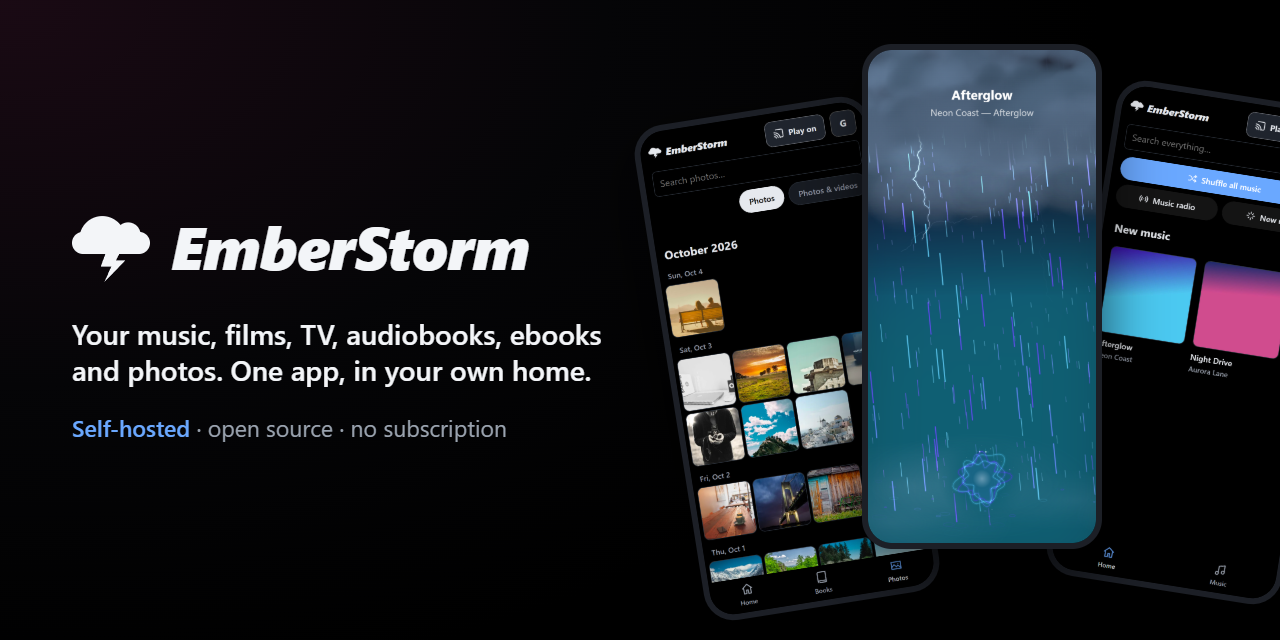
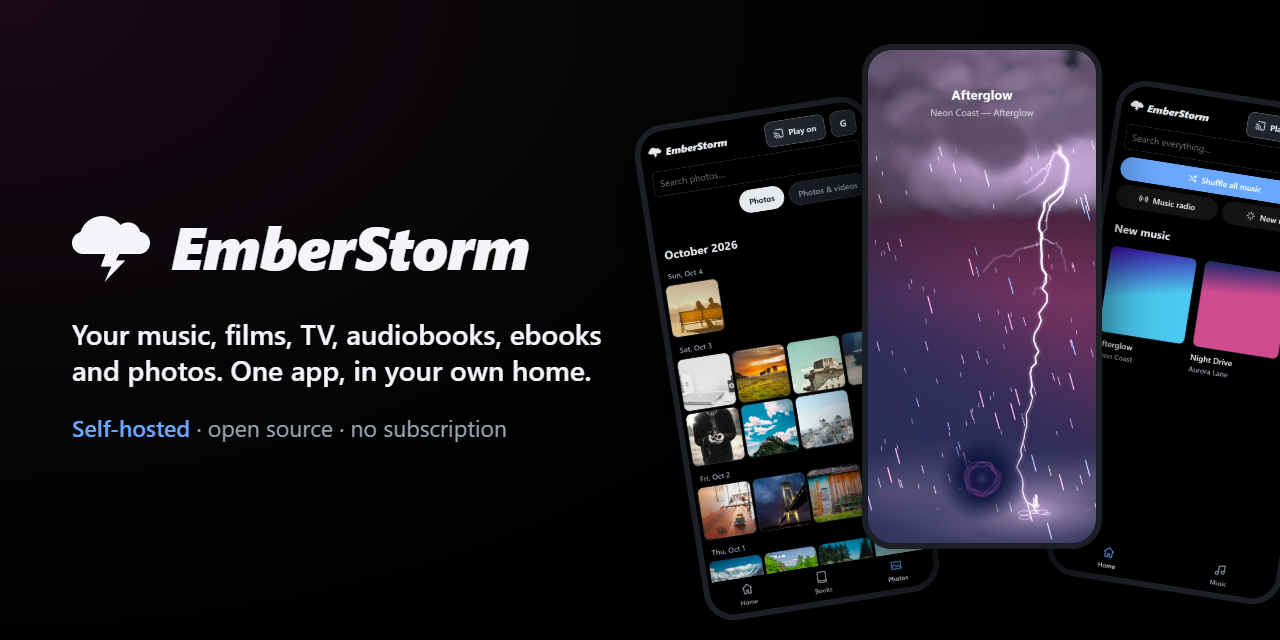
Website: Now Playing and the TV caught at a big lightning strike
scripts/smoke/storm-shot.js takes them on the test server (made-up songs),
the Storm look told the next frame is a loud, bass-heavy hit and asked for a
branching bolt to the ground; the preview image is redrawn from them.

Changed region(s): [[0.6562, 0.0625, 0.875, 0.875]]

diff --git a/scripts/smoke/storm-shot.js b/scripts/smoke/storm-shot.js
@@ -1,0 +1,93 @@
+// Takes Now Playing in the Storm look the moment a big close lightning bolt
+// lands, on the test server (made-up songs only), for the website: a phone
+// shot (web/shots/now-playing.png) and a TV shot (web/shots/tv.png).
+// The bolt is the one Storm draws for a loud, bass-heavy hit; here the next
+// frame is told it is one, and the screen is taken while it is brightest.
+//   node storm-shot.js            both
+//   node storm-shot.js phone|tv   one
+const { chromium } = require('playwright');
+const path = require('path');
+
+const base = 'http://127.0.0.1:8296';
+const root = path.resolve(__dirname, '..', '..');
+const which = process.argv[2] || 'both';
+const TITLE = 'Afterglow', ARTIST = 'Neon Coast', ALBUM = 'Afterglow';
+
+async function shoot(browser, name, ctxOpts, query, out) {
+  const ctx = await browser.newContext(ctxOpts);
+  const page = await ctx.newPage();
+  if (name === 'tv') {
+    // A TV draws the animation at 0.6 of a pixel and half the rain, to keep
+    // a projector smooth; the picture is drawn as sharp as a phone's.
+    await page.route('**/static/app.js*', async (route) => {
+      const res = await route.fetch();
+      const body = (await res.text()).replace('const VIZ_DENSITY = TV ? 0.5 : 1;', 'const VIZ_DENSITY = 1;')
+        .replace('const dpr = TV ? 0.6 : Math.min(window.devicePixelRatio || 1, 2);', 'const dpr = Math.min(window.devicePixelRatio || 1, 2);');
+      await route.fulfill({ response: res, body });
+    });
+  }
+  page.on('pageerror', (e) => console.log('page error:', e.message));
+  await page.request.post(`${base}/api/login`, { data: { username: 'smoke', password: 'smoke test password 4417' } });
+  await page.goto(base + query);
+  await page.waitForFunction(() => !document.getElementById('app').classList.contains('hidden'), null, { timeout: 30000 });
+  await page.evaluate(async () => {
+    state.prefs = state.prefs || {};
+    state.prefs.coverStyle = 'storm';
+    const r = await (await fetch('/api/search?q=&kind=music')).json();
+    // A song on the blue album, whose cover gives the storm its colours.
+    const i = Math.max(0, r.items.findIndex((x) => /First Album/.test(JSON.stringify(x))));
+    playQueue(r.items, i);
+    openNowPlaying();
+  });
+  await page.waitForFunction(() => document.getElementById('audio-player').currentTime > 0.3, null, { timeout: 30000 });
+  // Made-up names, as the other shots use.
+  await page.evaluate(({ TITLE, ARTIST, ALBUM }) => {
+    const set = (sel, text) => document.querySelectorAll(sel).forEach((e) => { e.textContent = text; });
+    set('#np-title', TITLE);
+    const a = document.querySelector('#np-sub');
+    if (a) a.textContent = `${ARTIST} — ${ALBUM}`;
+  }, { TITLE, ARTIST, ALBUM });
+  // Let the rain and clouds settle in.
+  await page.waitForTimeout(6000);
+  // The next frame is a big close strike; the screen is taken as it lands.
+  await page.evaluate(() => new Promise((done) => {
+    // A big branching bolt to the ground beside the play button (which keeps
+    // a clear circle round it), not one crawling across the clouds: Storm picks at random, so it is asked again
+    // until it picks that.
+    const made = stormBolt;
+    stormBolt = (w, h, s, age) => {
+      for (let n = 0; n < 500; n++) {
+        const b = made(w, h, s, age);
+        if (b.tier === 2 && !b.crawl && b.branches.length >= 5 && Math.abs(b.ex - b.x) < w * 0.2 &&
+          Math.abs(b.ex - w / 2) > w * 0.2 && Math.abs(b.ex - w / 2) < w * 0.32) return b;
+      }
+      return made(w, h, s, age);
+    };
+    const orig = VIZ_SCENES.storm;
+    let fired = false, frames = 0;
+    VIZ_SCENES.storm = (st, m) => {
+      if (!fired) {
+        fired = true;
+        Object.assign(m, { drop: true, firstDrop: false, dropPower: 1, dropLoud: 0.97, dropBass: 0.95, dropEnv: 1 });
+      }
+      orig(st, m);
+      if (fired && ++frames === 3) done();
+    };
+  }));
+  await page.screenshot({ path: out });
+  await ctx.close();
+  console.log('wrote', path.relative(root, out));
+}
+
+(async () => {
+  const browser = await chromium.launch({ channel: 'chrome', args: ['--autoplay-policy=no-user-gesture-required'] });
+  if (which !== 'tv') {
+    await shoot(browser, 'phone', { viewport: { width: 390, height: 844 }, deviceScaleFactor: 2, isMobile: true, hasTouch: true },
+      '/', path.join(root, 'web', 'shots', 'now-playing.png'));
+  }
+  if (which !== 'phone') {
+    await shoot(browser, 'tv', { viewport: { width: 960, height: 540 }, deviceScaleFactor: 2 },
+      '/?tv=1', path.join(root, 'web', 'shots', 'tv.png'));
+  }
+  await browser.close();
+})().catch((e) => { console.error(e); process.exit(1); });
